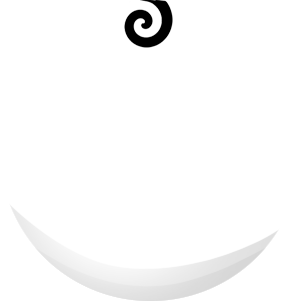
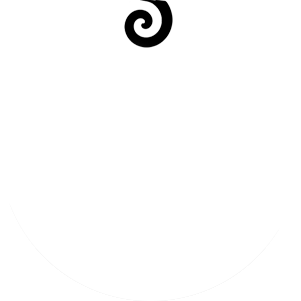
Arms

Changed region(s): [[0.2093, 0.7774, 0.9269, 1.0], [0.1196, 0.8372, 0.2093, 0.897]]

diff --git a/Tempov1/Character.cs b/Tempov1/Character.cs
@@ -17,9 +17,11 @@ namespace Tempov1
     {
         // Animation representing the player
         public Texture2D playerTexture;
+        private Texture2D faceTexture;
         private Texture2D leftArmTexture;
         private Texture2D rightArmTexture;
         private Texture2D legTexture;
+        private Texture2D shadowTexture;
 
         // Position of the Player relative to the upper left side of the screen
         public Vector2 position;
@@ -57,12 +59,14 @@ namespace Tempov1
             get { return playerTexture.Height; }
         }
 
-        public void Initialize(Texture2D headTexture, Texture2D leftArmTexture, Texture2D rightArmTexture, Texture2D legTexture, Vector2 position, World world)
+        public void Initialize(Texture2D headTexture, Texture2D faceTexture, Texture2D leftArmTexture, Texture2D rightArmTexture, Texture2D legTexture, Texture2D shadowTexture, Vector2 position, World world)
         {
             
             playerTexture = headTexture;
+            this.faceTexture = faceTexture;
             this.leftArmTexture = leftArmTexture;
             this.rightArmTexture = rightArmTexture;
+            this.shadowTexture = shadowTexture;
             this.legTexture = legTexture;
             this.position = position;
             this.world = world;
@@ -72,7 +76,7 @@ namespace Tempov1
 
             float circleRadius = ConvertUnits.ToSimUnits((( playerTexture.Width /2)*scale));   // 301px radius
 
-            body = BodyFactory.CreateCircle(world, circleRadius, 1f);    // Radius 10, desity 1
+            body = BodyFactory.CreateCircle(world, circleRadius, 3f);    // Radius 10, desity 1
             body.BodyType = BodyType.Dynamic;
             body.Position = ConvertUnits.ToSimUnits(position) + ConvertUnits.ToSimUnits(circleOrigin);
             body.Restitution = 0.3f;
@@ -109,6 +113,9 @@ namespace Tempov1
             position = body.Position;
             DrawLimbs(spriteBatch);
             spriteBatch.Draw(playerTexture, ConvertUnits.ToDisplayUnits(body.Position), null, colour, body.Rotation, circleOrigin, scale, SpriteEffects.None, 0f);
+            spriteBatch.Draw(faceTexture, ConvertUnits.ToDisplayUnits(body.Position), null, colour, body.Rotation, circleOrigin/5, scale, SpriteEffects.None, 0f);
+            spriteBatch.Draw(shadowTexture, ConvertUnits.ToDisplayUnits(body.Position), null, colour, 0f, circleOrigin, scale, SpriteEffects.None, 0f);
+
 
             // DEBUGGING CODE. TO DELETE
             if (isPlayer)
@@ -130,9 +137,9 @@ namespace Tempov1
                                rnd.Next(60, 255), 
                                rnd.Next(60, 255));
 
-            limbColour = new Color(rnd.Next(180, 255),
-                                    rnd.Next(180, 255),
-                                    rnd.Next(180, 255));
+            limbColour = new Color(rnd.Next(100, 255),
+                                    rnd.Next(100, 255),
+                                    rnd.Next(100, 255));
 
 
 
@@ -155,9 +162,13 @@ namespace Tempov1
                 float legOffset = scale * ((float)width * ((float)x / ((float)legs + 1f)) - width/2);
 
                 Console.WriteLine("leg offset was " + legOffset + ". Width is " + width);
-                Limb limb = new Limb((int)legOffset, (int)(150 * scale), scale, legTexture, body, world, this, limbColour);
+                Limb limb = new Limb((int)legOffset, (int)(150 * scale), scale, legTexture, body, world, this, limbColour, 1);
                 legArray.Add(limb);
             }
+
+            
+            legArray.Add(new Limb((int)((-1)*((playerTexture.Width/2)*scale)), (int)(90 * scale), scale, leftArmTexture, body, world, this, limbColour, 2));
+            legArray.Add(new Limb((int)(((playerTexture.Width / 2) * scale)), (int)(90 * scale), scale, rightArmTexture, body, world, this, limbColour, 3));
         }
 
         private void DrawLimbs(SpriteBatch spriteBatch)

diff --git a/Tempov1/Limb.cs b/Tempov1/Limb.cs
@@ -5,6 +5,7 @@ using System.Text;
 using Microsoft.Xna.Framework;
 using Microsoft.Xna.Framework.Graphics;
 using FarseerPhysics.Dynamics;
+using FarseerPhysics.Dynamics.Joints;
 using FarseerPhysics.Factories;
 using FarseerPhysics.Collision;
 using FarseerPhysics.Common;
@@ -27,7 +28,10 @@ namespace Tempov1
         // Physics
         public Body limbBody;
 
-        public Limb(int x, int y, float scale, Texture2D texture, Body body, World world, Character parent, Color limbColour)
+        /*
+         *  Limbtype ; 1 = leg, 2 = arm
+         */
+        public Limb(int x, int y, float scale, Texture2D texture, Body body, World world, Character parent, Color limbColour, int limbType)
         {
             this.texture = texture;
             xOffset = x;
@@ -39,12 +43,50 @@ namespace Tempov1
 
             position = new Vector2(xOffset, yOffset);
 
-            limbBody = BodyFactory.CreateRectangle(world, ConvertUnits.ToSimUnits((texture.Width * scale)), ConvertUnits.ToSimUnits((texture.Height * scale)), 1);
-            limbBody.BodyType = BodyType.Dynamic;
-            limbBody.Position = ConvertUnits.ToSimUnits(parent.position + position + parent.circleOrigin);
-            limbBody.Restitution = 0.1f;
-            limbBody.Friction = 0.5f;
-            JointFactory.CreateWeldJoint(world, limbBody, body, Vector2.Zero);
+            if (limbType == 1)
+            {
+                limbBody = BodyFactory.CreateRectangle(world, ConvertUnits.ToSimUnits((texture.Width * scale)), ConvertUnits.ToSimUnits((texture.Height * scale)), 3f);
+                limbBody.BodyType = BodyType.Dynamic;
+                limbBody.Position = ConvertUnits.ToSimUnits(parent.position + position + parent.circleOrigin);
+                limbBody.Restitution = 0.1f;
+                limbBody.Friction = 0.5f;
+                JointFactory.CreateWeldJoint(world, limbBody, body, Vector2.Zero);
+            }
+
+            // Arm (left or right)
+            if (limbType == 2 || limbType == 3)
+            {
+                // TO DO - Remove repition in this class
+                if (limbType == 2)
+                {
+                    limbBody = BodyFactory.CreateRectangle(world, ConvertUnits.ToSimUnits(((texture.Width - 10) * scale)), ConvertUnits.ToSimUnits((texture.Height * scale)), 5f);
+                }
+                else
+                {
+                    limbBody = BodyFactory.CreateRectangle(world, ConvertUnits.ToSimUnits(((texture.Width + 10) * scale)), ConvertUnits.ToSimUnits((texture.Height * scale)), 5f);
+                }
+                
+                limbBody.BodyType = BodyType.Dynamic;
+                limbBody.Position = ConvertUnits.ToSimUnits(parent.position + position + parent.circleOrigin);
+                limbBody.Restitution = 0f;
+                limbBody.Friction = 10f;
+
+                RevoluteJoint _revolutejoint;
+                if (limbType == 2)
+                {
+                    _revolutejoint = JointFactory.CreateRevoluteJoint(world, body, limbBody, new Vector2(ConvertUnits.ToSimUnits(texture.Width / 2), ConvertUnits.ToSimUnits((-1) * texture.Height / 2)));
+                }
+                else
+                {
+                    _revolutejoint = JointFactory.CreateRevoluteJoint(world, body, limbBody, new Vector2(ConvertUnits.ToSimUnits((-1)*texture.Width / 2), ConvertUnits.ToSimUnits((-1) * texture.Height / 2)));
+                }
+                
+                _revolutejoint.LimitEnabled = true;
+                _revolutejoint.LowerLimit = (float)Math.PI/-4;
+                _revolutejoint.UpperLimit = (float)Math.PI/4;
+                //JointFactory.CreateWeldJoint(world, limbBody, body, Vector2.Zero);
+                
+            }
         }
 
         public void Draw(SpriteBatch spriteBatch)

diff --git a/Tempov1/Game1.cs b/Tempov1/Game1.cs
@@ -70,7 +70,7 @@ namespace Tempov1
 
             characterList.Add(player);
 
-            for (int x = 0; x < 5; x++)
+            for (int x = 0; x < 1; x++)
             {
                 characterList.Add(new Character());
             }
@@ -117,9 +117,11 @@ namespace Tempov1
                 System.Threading.Thread.Sleep(50);
             Vector2 playerPosition = new Vector2(rnd.Next(0,1000), rnd.Next(100,100));
             character.Initialize(Content.Load<Texture2D>("Character/head"),
+                Content.Load<Texture2D>("Character/face"),
                 Content.Load<Texture2D>("Character/leftarm"),
                 Content.Load<Texture2D>("Character/rightarm"),
                 Content.Load<Texture2D>("Character/leg"),
+                Content.Load<Texture2D>("Character/shading"),
                 playerPosition,
                 world);
 
@@ -210,11 +212,13 @@ namespace Tempov1
             Random rnd = new Random();
             Character newChar = new Character();
             characterList.Add(newChar);
-            Vector2 playerPosition = new Vector2(rnd.Next(0, 1000), rnd.Next(100, 100));
+            Vector2 playerPosition = new Vector2(rnd.Next(0, 1000), rnd.Next(0, 50));
             newChar.Initialize(Content.Load<Texture2D>("Character/head"),
+                Content.Load<Texture2D>("Character/face"),
                 Content.Load<Texture2D>("Character/leftarm"),
                 Content.Load<Texture2D>("Character/rightarm"),
                 Content.Load<Texture2D>("Character/leg"),
+                Content.Load<Texture2D>("Character/shading"),
                 playerPosition,
                 world);
 
